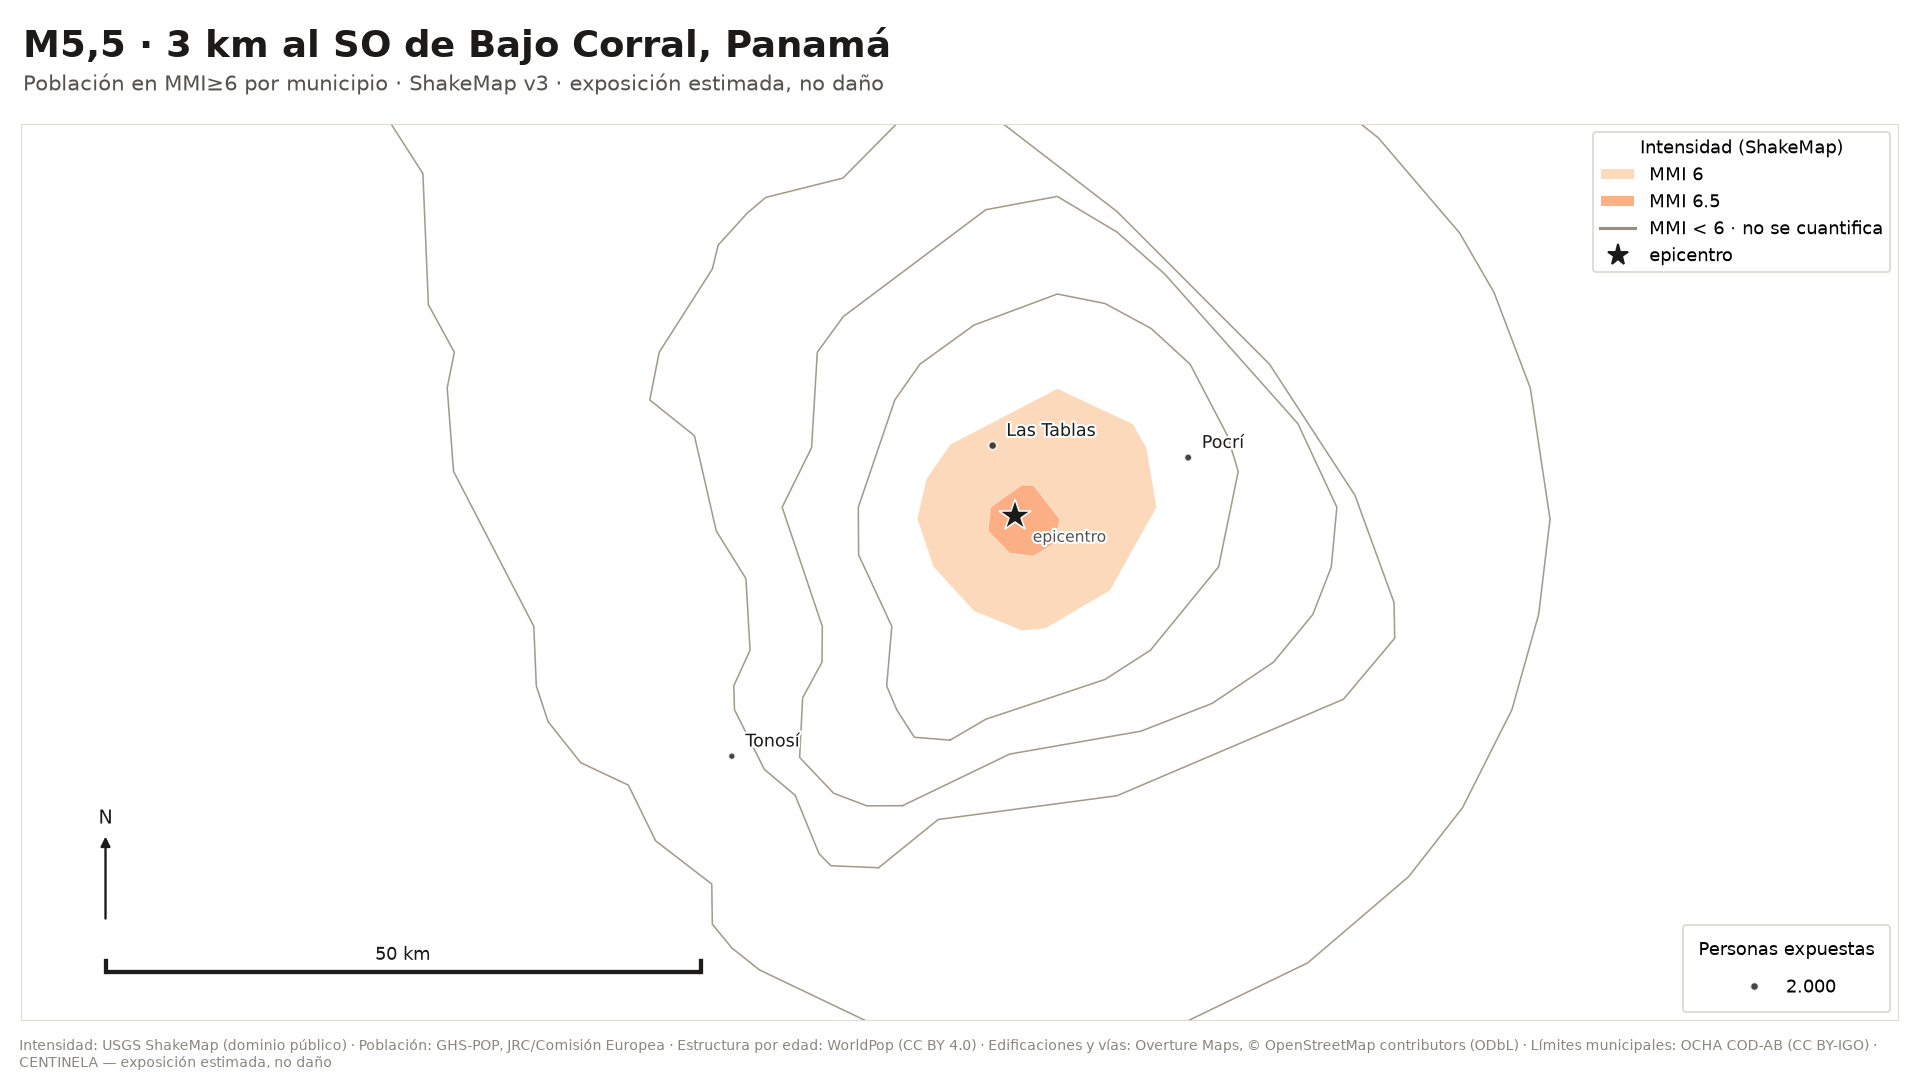
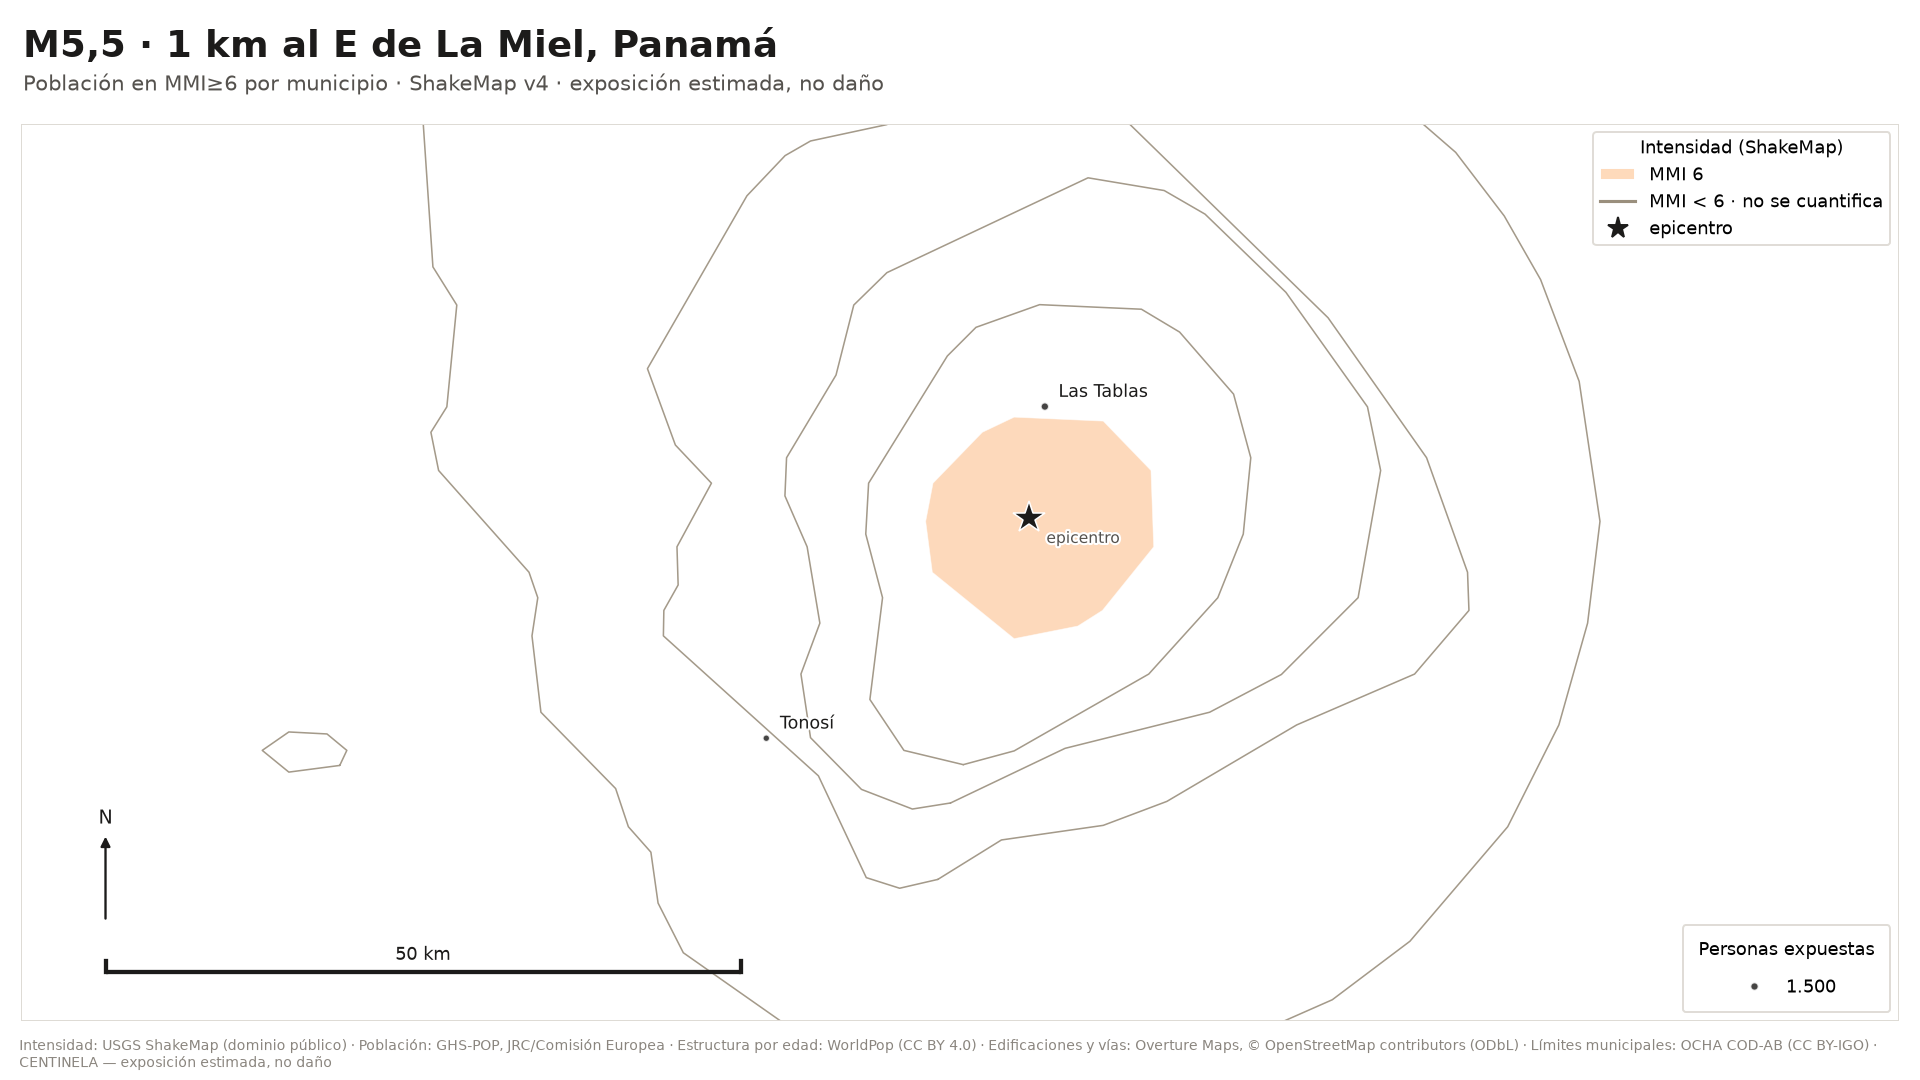
P3: reporte de us6000u18t

diff --git a/reports/us6000u18t/report.md b/reports/us6000u18t/report.md
@@ -1,4 +1,4 @@
-# Exposición sísmica: M5,5 · 3 km al SO de Bajo Corral, Panamá
+# Exposición sísmica: M5,5 · 1 km al E de La Miel, Panamá
 
 **Evento USGS:** `us6000u18t` · **Origen:** 2026-10-09T18:22:15Z UTC · **Profundidad:** 10,0 km
 
@@ -6,37 +6,36 @@
 
 | Indicador | Estimado |
 |---|---:|
-| Población en MMI≥6 | 2.500 |
+| Población en MMI≥6 | 1.500 |
 | Población en MMI≥7 | el evento no llegó a esta banda |
 | Población en MMI≥8 | el evento no llegó a esta banda |
-| Edificaciones en MMI≥6 | 2.800 |
+| Edificaciones en MMI≥6 | 1.900 |
 | Sedes de salud en MMI≥6 | 0 |
 | Sedes educativas en MMI≥6 | 0 |
-| Kilómetros de vía en MMI≥6 | 210 km |
-| Superficie construida en MMI≥6 | 0,4 km² |
+| Kilómetros de vía en MMI≥6 | 160 km |
+| Superficie construida en MMI≥6 | 0,2 km² |
 
 Las cifras de esta tabla van redondeadas a dos cifras significativas, que es la precisión que un modelo de exposición sostiene. Las exactas están en el CSV municipal y en `report.json`.
 
-De la población en intensidad MMI≥6, alrededor de **700** personas tienen 65 años o más.
+De la población en intensidad MMI≥6, alrededor de **420** personas tienen 65 años o más.
 
 ## Municipios más expuestos, por población en MMI≥6
 
 | # | Municipio | Código | MMI max | Población MMI≥6 |
 |---:|---|---|---:|---:|
-| 1 | Las Tablas | `PA0902` | 6,5 | 2.000 |
-| 2 | Pocrí | `PA0906` | 6,0 | 490 |
-| 3 | Tonosí | `PA0907` | 6,0 | 15 |
+| 1 | Las Tablas | `PA0902` | 6,0 | 1.500 |
+| 2 | Tonosí | `PA0907` | 6,0 | 73 |
 
 ## Deslizamiento y licuefacción
 
 - **Deslizamiento.** Población en celdas de MMI≥6 donde el modelo espera ≥ 0,10 de probabilidad de deslizamiento según `jessee_2018_model.tif`: **0**.
-- **Licuefacción.** Población en celdas de MMI≥6 donde el modelo espera ≥ 0,10 de cobertura areal por licuefacción según `zhu_2017_general_model.tif`: **0**.
+- **Licuefacción.** Población en celdas de MMI≥6 donde el modelo espera ≥ 0,10 de cobertura areal por licuefacción según `zhu_2017_general_model.tif`: **0**. USGS declara para este evento alerta **amarilla**, con 180 expuestas. El cero de arriba no dice que no haya exposición: dice que ninguna celda llega al umbral.
 
 Las dos cifras se cuentan sobre las celdas del corte publicado (MMI≥6). **No son las de USGS y no se pueden comparar de frente**: aquí se cuenta la población entera de toda celda por encima del umbral, y USGS pondera la población de cada celda por el valor de esa celda. Son dos preguntas distintas sobre el mismo ráster.
 
 **Y el umbral se evalúa en un solo punto por celda: su centroide.** El píxel del ráster es más pequeño que la celda, así que ese punto decide si entra la población entera de la celda o no entra ninguna. No es una estadística areal, y el sesgo que introduce no está medido: puede quedarse corto o pasarse.
 
-Fuente: producto *Ground Failure* de USGS (v3), dominio público.
+Fuente: producto *Ground Failure* de USGS (v4), dominio público.
 
 ## Referencia cruzada
 
@@ -46,10 +45,14 @@ Las dos cifras **no se tabulan igual** y no se pueden leer una contra otra: PAGE
 
 ## Incertidumbre y calidad
 
-Discrepancia entre GHS-POP y WorldPop en las bandas MMI publicadas: **11,5 %**.
+Discrepancia entre GHS-POP y WorldPop en las bandas MMI publicadas: **9,6 %**.
 
 ## Cambios frente a la versión anterior
 
+- ShakeMap: v3 (us) → v4 (us)
+- Ground Failure: v3 (us) → v4 (us)
+- Epicentro: reubicado 4 km
+- Población en MMI≥6: 2.500 → 1.500
 - ShakeMap: v2 (us) → v3 (us)
 - Ground Failure: v2 (us) → v3 (us)
 - Ninguna cifra publicada cambia frente a la versión anterior.
@@ -66,10 +69,10 @@ Discrepancia entre GHS-POP y WorldPop en las bandas MMI publicadas: **11,5 %**.
 
 ## Procedencia
 
-- ShakeMap consumido: **v3** de `us`
-- Ground Failure consumido: **v3** de `us`
-- Manifiesto de exposición: [`pan-v0.4`](https://github.com/sforero77/CENTINELA/blob/main/data/manifests/PAN.yaml)
-- Pipeline: `0.1.0` · Generado: 2026-10-11T11:21:05Z
+- ShakeMap consumido: **v4** de `us`
+- Ground Failure consumido: **v4** de `us`
+- Manifiesto de exposición: [`pan-v0.5`](https://github.com/sforero77/CENTINELA/blob/main/data/manifests/PAN.yaml)
+- Pipeline: `0.1.0` · Generado: 2026-11-02T12:01:25Z
 
 ## Advertencias
 
